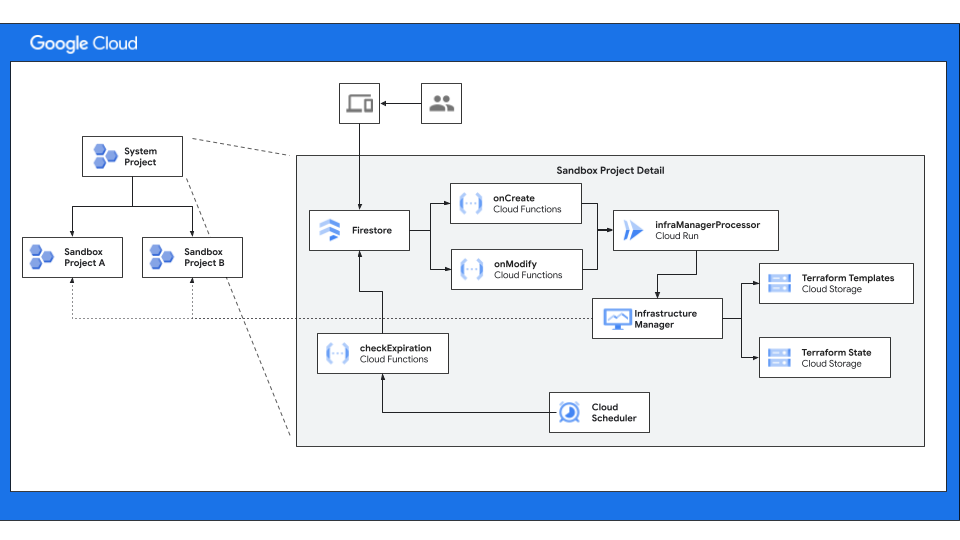
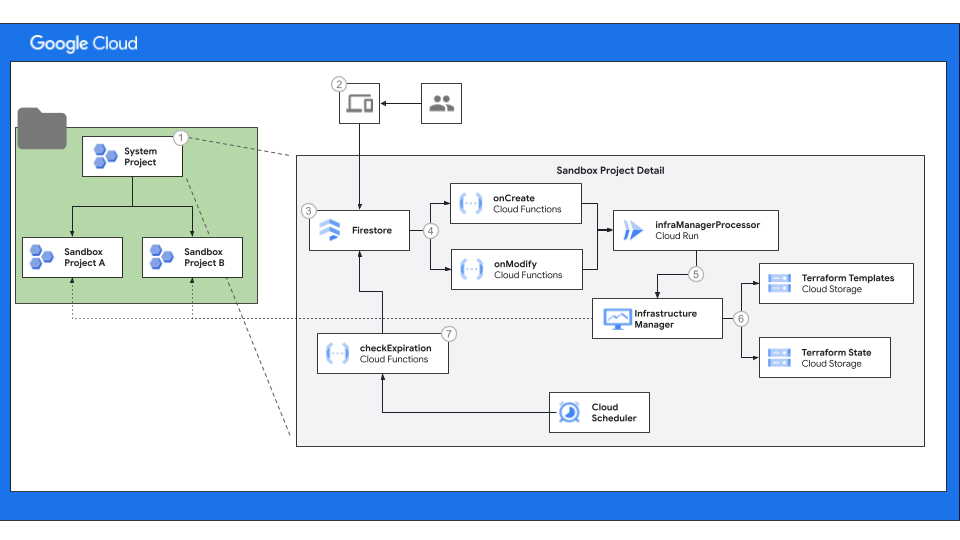
docs updates.

diff --git a/reference-architectures/sandboxes/README.md b/reference-architectures/sandboxes/README.md
@@ -8,8 +8,13 @@ The following diagram is the high-level architecture for the enabling self-servi
 
 ![architecture](resources/high-level-arch.png)
 
-1. 
-2. 
+1. The system project is contains the state database and infrastructure required to create, delete and manage they lifecycle of the sandboxes.
+2. User interface that engineers use to request and manage the sandboxes they own.
+3. Firestore is used to store the state of the overall environment. The documents in the database represent all the active and inactive sandboxes. The document model is detailed in the [sandbox-modules README](sandbox-modules/README.md).
+4. When documents are created and updated, those events are received by Cloud Run functions `onCreate` and `onModify`. The functions contain the logic required to decided if a sandbox should be created or deleted.
+5. `infraManagerProcessor` is a Cloud Run process with works with Infrastructure Manager to kick off and monitor the infrastructure management. This is handled in a Cloud Run process because the execution of Terraform is along running process.
+6. The Terraform templates and state used by Infrastructure manager are stored in Cloud Storage.
+7. Cloud Scheduler is used to trigger the execution of sandbox lifecycle management processes, for example a function that check for the expiration of sandboxes and marking them for deletion.
 
 # Structure of the Repository
 

diff --git a/reference-architectures/sandboxes/TODO.md b/reference-architectures/sandboxes/TODO.md
@@ -1,4 +1,8 @@
 # Running list of todos
 
-[] Root level documentation
-[] Document the structure of the Firestore documents
+- [ ] Root level documentation
+- [ ] Document the structure of the Firestore documents
+- [ ] Life cycle process for deleting expired sandboxes
+- [ ] Life cycle process for budget management
+- [ ] Example of how to add policy restrictions on the sandboxes folder
+- [ ] Default IAM settings for user access to the sandbox projects
